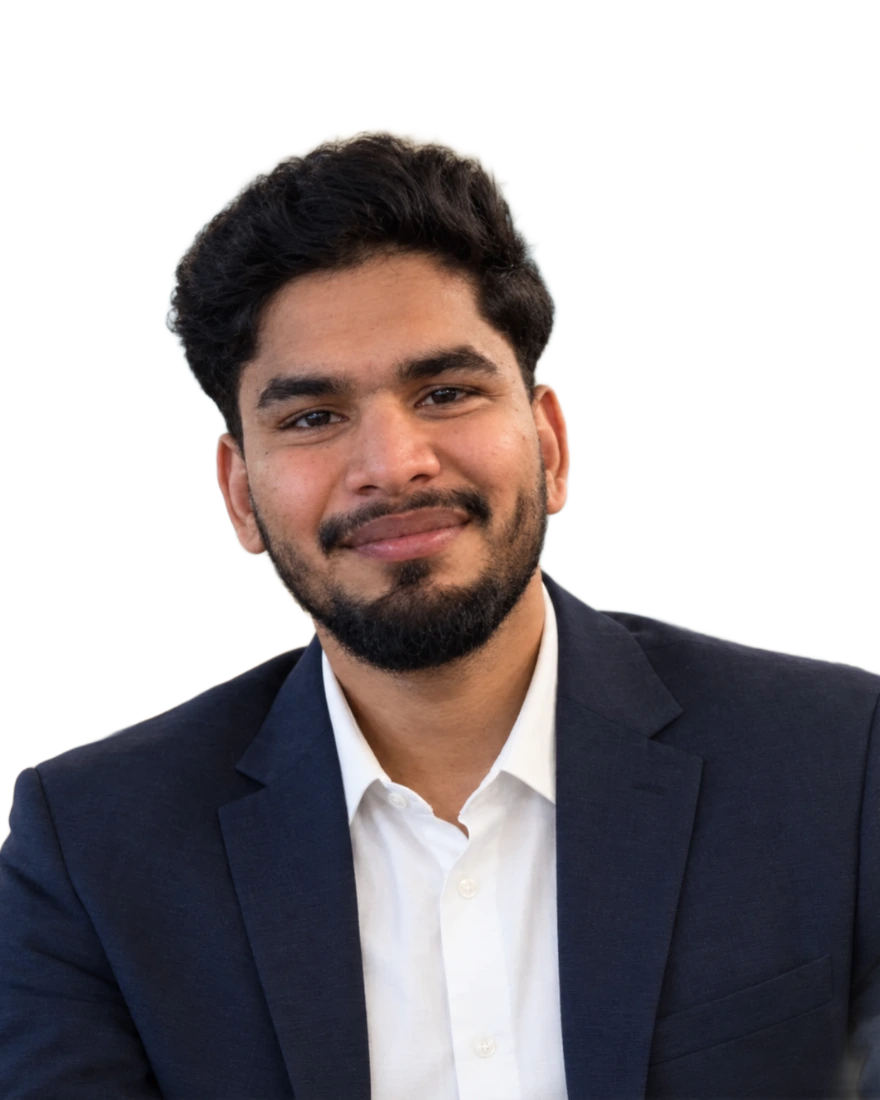
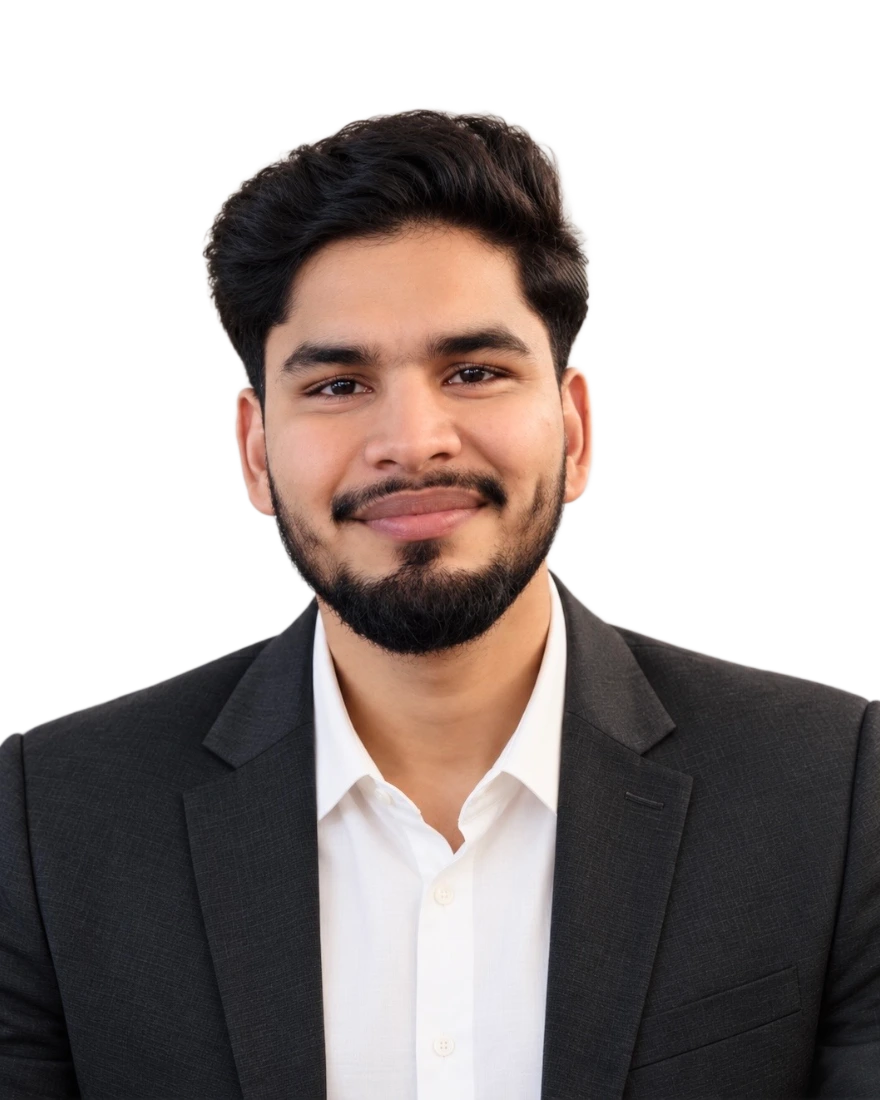
feat: updated the projects with repoPilot

diff --git a/src/Components/Projects/RepoPilotVisual.jsx b/src/Components/Projects/RepoPilotVisual.jsx
@@ -1,0 +1,212 @@
+import React from "react";
+
+/**
+ * High-level illustration of repoPilot: a Java repository on disk → an index of
+ * symbols and the references between them → the interactive Code Universe built
+ * from that index. Deliberately conceptual — it is not a screenshot of the real
+ * workbench, which lives in the linked repository.
+ */
+const RepoPilotVisual = () => {
+  const nodes = [
+    { x: 396, y: 60, r: 4.6, accent: true },
+    { x: 420, y: 46, r: 2.8 },
+    { x: 444, y: 62, r: 3.6, accent: true },
+    { x: 470, y: 50, r: 2.4 },
+    { x: 404, y: 84, r: 3.2 },
+    { x: 434, y: 90, r: 4.2, accent: true },
+    { x: 462, y: 80, r: 3 },
+    { x: 486, y: 96, r: 2.2 },
+  ];
+
+  const edges = [
+    [0, 1],
+    [0, 4],
+    [1, 2],
+    [1, 5],
+    [2, 3],
+    [4, 5],
+    [5, 6],
+    [6, 7],
+    [2, 6],
+    [0, 5],
+  ];
+
+  const reports = [
+    { label: "Coverage", detail: "read · skipped · unparsed", pill: "STATED" },
+    { label: "Findings", detail: "severity · rule · line", pill: "CONFIRMED" },
+    { label: "Performance Lab", detail: "JMH · recordings · runs", pill: "MEASURED" },
+  ];
+
+  return (
+    <svg
+      viewBox="0 0 520 320"
+      role="img"
+      aria-label="Conceptual diagram of repoPilot: a Java repository on disk is indexed into symbols and references, then drawn as an interactive Code Universe of nodes and edges, with coverage, findings and performance reports beneath."
+      className="h-auto w-full"
+    >
+      <defs>
+        <linearGradient id="rp-index" x1="0" y1="0" x2="0" y2="1">
+          <stop offset="0%" stopColor="#c9a86a" stopOpacity="0.10" />
+          <stop offset="100%" stopColor="#7fae92" stopOpacity="0.03" />
+        </linearGradient>
+        <radialGradient id="rp-universe" cx="50%" cy="50%" r="62%">
+          <stop offset="0%" stopColor="#7fae92" stopOpacity="0.16" />
+          <stop offset="100%" stopColor="#7fae92" stopOpacity="0" />
+        </radialGradient>
+      </defs>
+
+      {/* step 1 — repository on disk */}
+      <g>
+        <text x="16" y="20" fill="#8c9a90" fontSize="9" letterSpacing="0.16em" fontFamily="ui-monospace, monospace">
+          01 · REPOSITORY
+        </text>
+        <rect x="14" y="32" width="132" height="104" rx="12" fill="#0a1210" stroke="rgba(242,239,230,0.12)" />
+        {/* folder */}
+        <path
+          d="M26 46 h12 l3 4 h15 v14 h-30z"
+          fill="none"
+          stroke="rgba(242,239,230,0.35)"
+          strokeWidth="1.1"
+        />
+        {/* file rows */}
+        {[0, 1, 2, 3].map((i) => (
+          <g key={i}>
+            <rect x="26" y={76 + i * 12} width="6" height="6" rx="1.5" fill="#7fae92" opacity={0.75 - i * 0.12} />
+            <rect x="38" y={77 + i * 12} width={78 - i * 14} height="4" rx="2" fill="#f2efe6" opacity={0.24 - i * 0.03} />
+          </g>
+        ))}
+        <text x="26" y="130" fill="#a3b0a6" fontSize="9" fontFamily="ui-monospace, monospace">
+          Java · on disk
+        </text>
+      </g>
+
+      {/* connector 1 */}
+      <g stroke="#c9a86a" strokeOpacity="0.6" strokeWidth="1.4" fill="none">
+        <path d="M146 84 H176" className="flow-line" />
+      </g>
+      <path d="M172 79 l6 5 -6 5" fill="none" stroke="#c9a86a" strokeOpacity="0.8" strokeWidth="1.4" />
+
+      {/* step 2 — index of symbols and references */}
+      <g>
+        <text x="182" y="20" fill="#8c9a90" fontSize="9" letterSpacing="0.16em" fontFamily="ui-monospace, monospace">
+          02 · INDEX
+        </text>
+        <rect x="180" y="32" width="150" height="104" rx="12" fill="#0a1210" stroke="rgba(242,239,230,0.12)" />
+        <rect
+          x="190"
+          y="42"
+          width="130"
+          height="74"
+          rx="10"
+          fill="url(#rp-index)"
+          stroke="rgba(201,168,106,0.38)"
+          strokeWidth="1.2"
+          strokeDasharray="6 6"
+        />
+        {[
+          { x: 200, y: 50, w: 62, o: 0.9 },
+          { x: 200, y: 70, w: 92, o: 0.55 },
+          { x: 200, y: 90, w: 74, o: 0.35 },
+        ].map((s) => (
+          <g key={s.y}>
+            <rect x={s.x} y={s.y} width={s.w} height="12" rx="6" fill="#f2efe6" opacity="0.14" />
+            <circle cx={s.x + 6} cy={s.y + 6} r="2" fill="#7fae92" opacity={s.o} />
+          </g>
+        ))}
+        <text x="196" y="130" fill="#a3b0a6" fontSize="9" fontFamily="ui-monospace, monospace">
+          symbols · references
+        </text>
+      </g>
+
+      {/* connector 2 */}
+      <g stroke="#7fae92" strokeOpacity="0.6" strokeWidth="1.4" fill="none">
+        <path d="M330 84 H360" className="flow-line" style={{ animationDelay: "0.6s" }} />
+      </g>
+      <path d="M356 79 l6 5 -6 5" fill="none" stroke="#7fae92" strokeOpacity="0.8" strokeWidth="1.4" />
+
+      {/* step 3 — code universe graph */}
+      <g>
+        <text x="366" y="20" fill="#8c9a90" fontSize="9" letterSpacing="0.16em" fontFamily="ui-monospace, monospace">
+          03 · CODE UNIVERSE
+        </text>
+        <rect x="364" y="32" width="142" height="104" rx="12" fill="#0a1210" stroke="rgba(242,239,230,0.12)" />
+        <rect x="364" y="32" width="142" height="104" rx="12" fill="url(#rp-universe)" />
+
+        <g stroke="rgba(242,239,230,0.22)" strokeWidth="0.9">
+          {edges.map(([a, b]) => (
+            <line key={`${a}-${b}`} x1={nodes[a].x} y1={nodes[a].y} x2={nodes[b].x} y2={nodes[b].y} />
+          ))}
+        </g>
+        {nodes.map((n, i) => (
+          <circle
+            key={i}
+            cx={n.x}
+            cy={n.y}
+            r={n.r}
+            fill={n.accent ? "#c9a86a" : "#7fae92"}
+            opacity={n.accent ? 0.9 : 0.55}
+          />
+        ))}
+        <circle cx="434" cy="90" r="8" fill="none" stroke="#c9a86a" strokeOpacity="0.55" />
+
+        <text x="374" y="122" fill="#a3b0a6" fontSize="8" fontFamily="ui-monospace, monospace">
+          2,400 of 100,801 edges
+        </text>
+        <text x="374" y="132" fill="#8c9a90" fontSize="8" fontFamily="ui-monospace, monospace">
+          a stated slice, not a summary
+        </text>
+      </g>
+
+      {/* what it reports */}
+      <text x="16" y="176" fill="#8c9a90" fontSize="9" letterSpacing="0.16em" fontFamily="ui-monospace, monospace">
+        WHAT IT REPORTS
+      </text>
+      {reports.map((row, i) => {
+        const y = 192 + i * 40;
+        const best = i === 0;
+        return (
+          <g key={row.label}>
+            <rect
+              x="14"
+              y={y}
+              width="492"
+              height="32"
+              rx="9"
+              fill={best ? "rgba(201,168,106,0.10)" : "#0a1210"}
+              stroke={best ? "rgba(201,168,106,0.45)" : "rgba(242,239,230,0.09)"}
+            />
+            <rect x="24" y={y + 7} width="18" height="18" rx="5" fill="#c9a86a" opacity={best ? 0.85 : 0.3} />
+            <text
+              x="52"
+              y={y + 14}
+              fill="#f2efe6"
+              fillOpacity={best ? 0.9 : 0.55}
+              fontSize="10"
+              fontFamily="ui-monospace, monospace"
+            >
+              {row.label}
+            </text>
+            <text x="52" y={y + 25} fill="#a3b0a6" fillOpacity="0.6" fontSize="8.5" fontFamily="ui-monospace, monospace">
+              {row.detail}
+            </text>
+            <rect x="404" y={y + 9} width="90" height="14" rx="7" fill="none" stroke="rgba(242,239,230,0.12)" />
+            <text
+              x="449"
+              y={y + 19}
+              fill="#7fae92"
+              fillOpacity={best ? 0.95 : 0.6}
+              fontSize="7.5"
+              letterSpacing="0.08em"
+              textAnchor="middle"
+              fontFamily="ui-monospace, monospace"
+            >
+              {row.pill}
+            </text>
+          </g>
+        );
+      })}
+    </svg>
+  );
+};
+
+export default RepoPilotVisual;

diff --git a/src/data/site.js b/src/data/site.js
@@ -305,6 +305,37 @@ export const projects = [
     visual: "snap2stay",
   },
   {
+    id: "repo-pilot",
+    name: "repoPilot",
+    tagline: "Local-First Code Intelligence",
+    featured: false,
+    description:
+      "A local-first code-intelligence and performance-analysis workbench that indexes a Java codebase on your machine and reports exactly what it understood, what it could not read, and what it measured — with no cloud account, API key or telemetry.",
+    highlights: [
+      "Indexes classes, interfaces, enums, records and methods, resolves the references between them, and publishes its own coverage — files read, files recorded without an analyzer, and files deliberately skipped.",
+      "Projects the index as a real interactive Code Universe built on Canvas 2D and d3-force, with search, filters and inspection, and states the slice it served — edges served versus edges indexed — instead of implying the whole repository.",
+      "Surfaces findings with severity, rule ids and line-confirmed citations, and names what each rule cannot see.",
+      "Keeps AI grounded: a local Ollama model answers, and the backend verifies every claim against indexed evidence before it reaches the screen.",
+      "Adds a Performance Lab that turns JMH recordings into measured panels, plus an analysis history of every job, attempt and duration.",
+    ],
+    tech: [
+      "Java",
+      "Spring Boot",
+      "Spring WebFlux",
+      "PostgreSQL",
+      "React",
+      "TypeScript",
+      "Canvas 2D",
+      "Ollama",
+      "JMH",
+      "Docker",
+    ],
+    links: {
+      github: "https://github.com/dangi-vikas/repo-pilot",
+    },
+    visual: "repo-pilot",
+  },
+  {
     id: "nexgen",
     name: "NexGen",
     tagline: "Pharmacy Platform",
@@ -335,7 +366,7 @@ export const projects = [
 ];
 
 export const education = {
-  degree: "Bachelor of Engineering, Mechanical Engineering",
+  degree: "Bachelor of Engineering",
   institute: "Institute of Engineering & Technology, DAVV, Indore",
   period: "2018–2022",
   score: "CGPA: 8.11/10",

diff --git a/src/App.test.js b/src/App.test.js
@@ -26,9 +26,10 @@ test("exposes working contact and project links", () => {
   );
 
   const repoLinks = screen.getAllByRole("link", { name: /view on github/i });
-  expect(repoLinks).toHaveLength(2);
+  expect(repoLinks).toHaveLength(3);
   expect(repoLinks[0]).toHaveAttribute("href", "https://github.com/dangi-vikas/snap2stay");
-  expect(repoLinks[1]).toHaveAttribute("href", "https://github.com/dangi-vikas/nexgen");
+  expect(repoLinks[1]).toHaveAttribute("href", "https://github.com/dangi-vikas/repo-pilot");
+  expect(repoLinks[2]).toHaveAttribute("href", "https://github.com/dangi-vikas/nexgen");
 });
 
 test("all navigation targets exist in the document", () => {

diff --git a/src/Components/Projects/Projects.jsx b/src/Components/Projects/Projects.jsx
@@ -15,7 +15,7 @@ const Projects = () => (
         id="projects-heading"
         eyebrow="Selected work"
         title="Systems built end to end."
-        description="Two projects that best represent how I design services, integrate machine learning into Java backends, and reason about reliability."
+        description="Three projects that show how I design services, bring machine learning into Java backends, and reason about reliability, performance and code quality."
       />
 
       <div className="mt-14 space-y-8">

diff --git a/src/Components/Projects/ProjectCard.jsx b/src/Components/Projects/ProjectCard.jsx
@@ -3,10 +3,12 @@ import Reveal from "../ui/Reveal";
 import { ExternalIcon, GithubIcon, ChevronRight } from "../ui/Icons";
 import Snap2StayVisual from "./Snap2StayVisual";
 import NexGenVisual from "./NexGenVisual";
+import RepoPilotVisual from "./RepoPilotVisual";
 
 const VISUALS = {
   snap2stay: Snap2StayVisual,
   nexgen: NexGenVisual,
+  "repo-pilot": RepoPilotVisual,
 };
 
 const ProjectCard = ({ project, index }) => {

diff --git a/README.md b/README.md
@@ -105,7 +105,7 @@ src/
   instead of expensive blur filters.
 - Fonts load with `display=swap`, so text never blocks on the network.
 - Images/SVGs carry explicit dimensions, so nothing can shift layout as it
-  loads; the hero portrait ships as an 880x1100 cut-out WebP (151 KB) rather
+  loads; the hero portrait ships as an 880x1100 cut-out WebP (188 KB) rather
   than the 1.8 MB original PNG.
 
 ## Deployment
